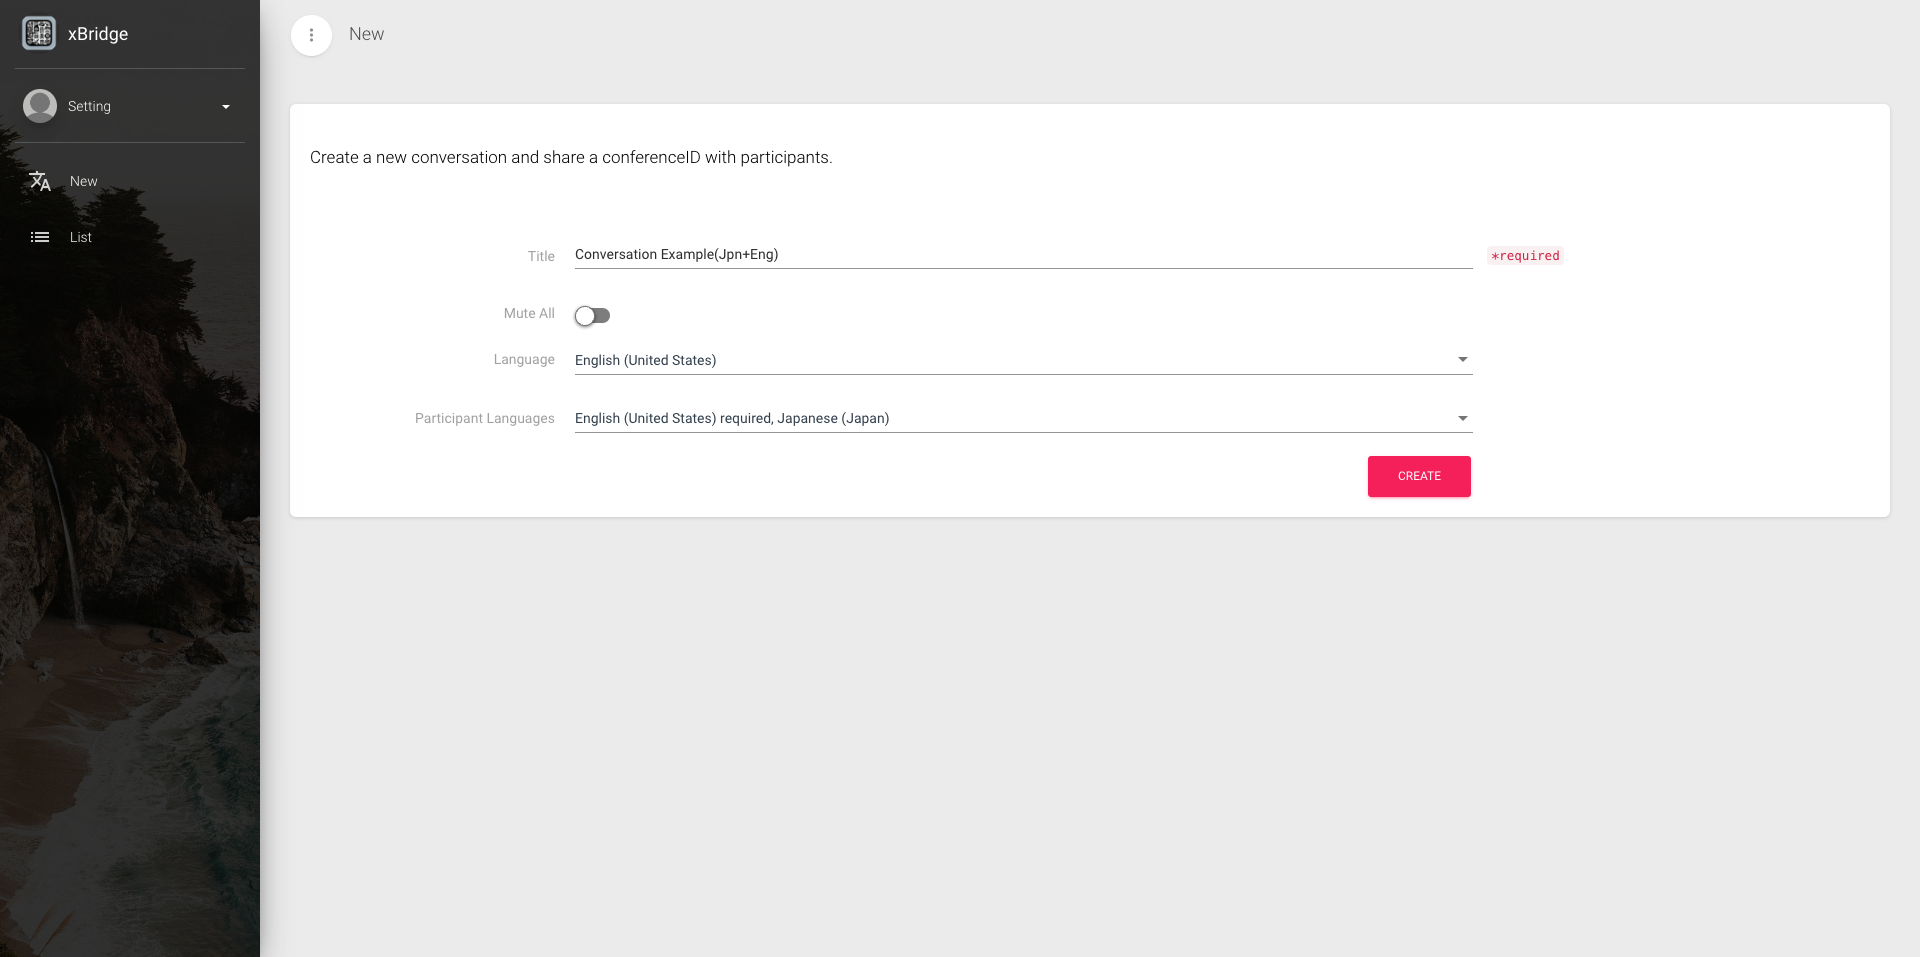
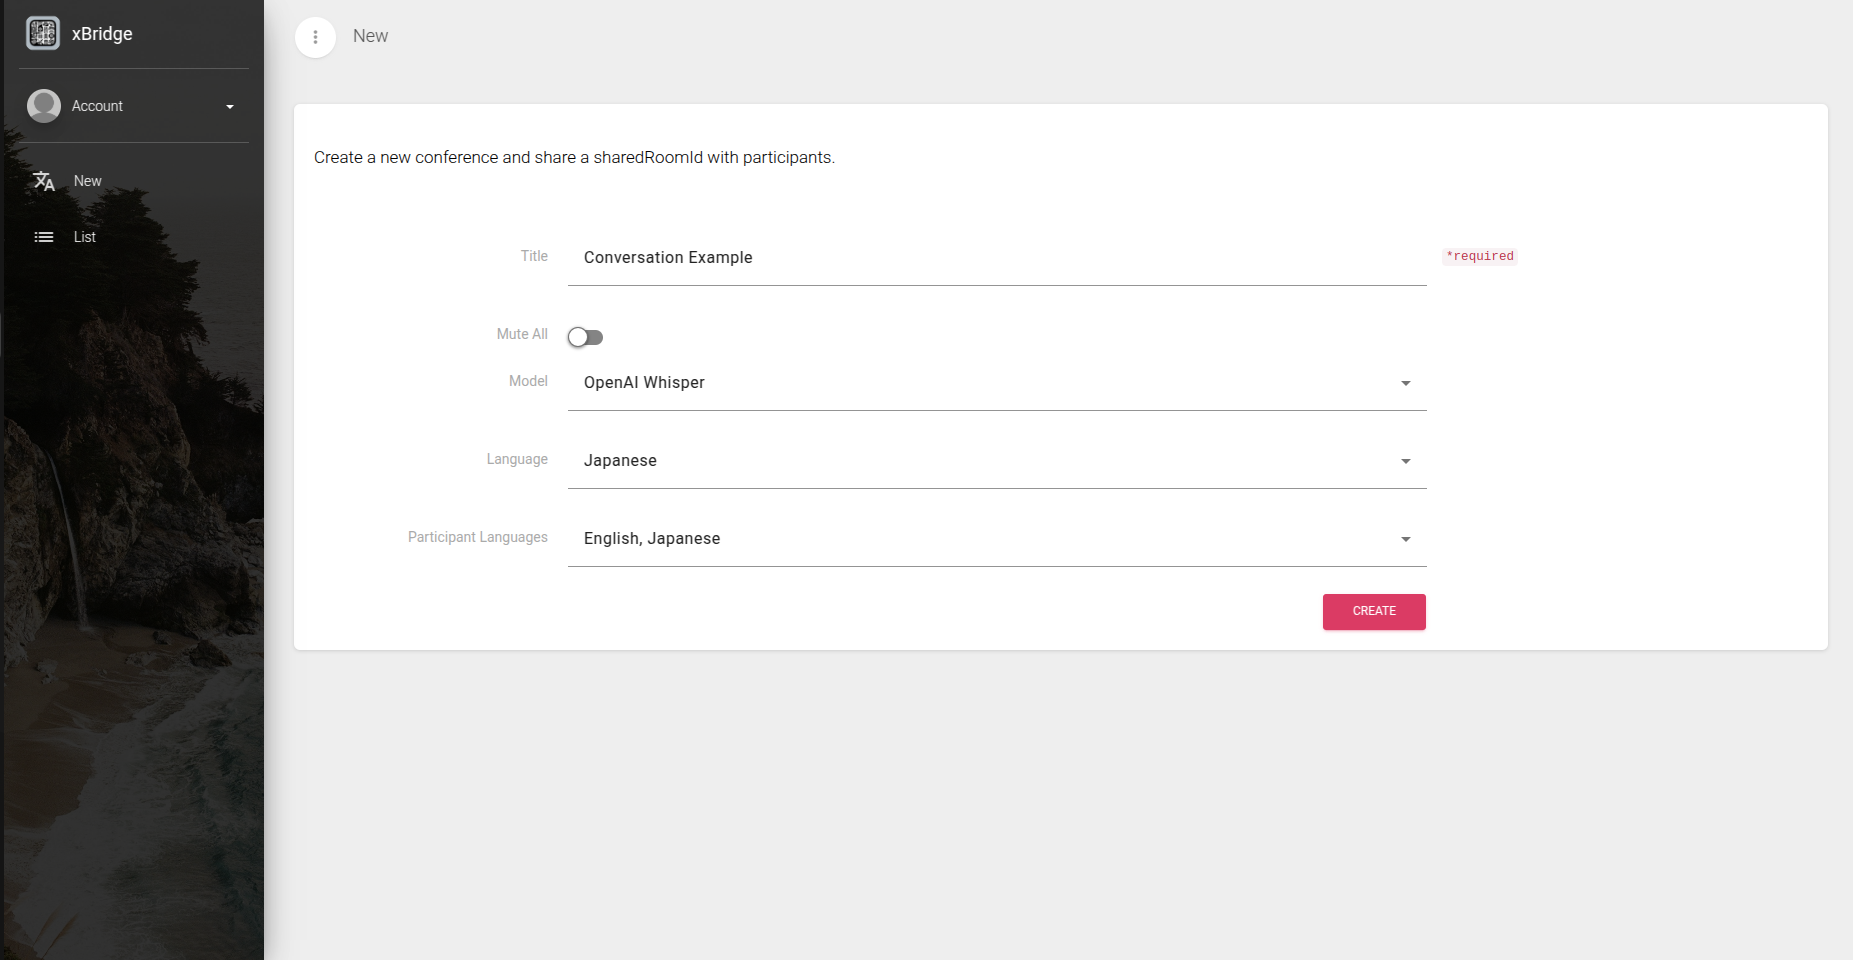
whisper model document

diff --git a/content/content.ja/docs/xbridge/supported-languages-whisper/_index.md b/content/content.ja/docs/xbridge/supported-languages-whisper/_index.md
@@ -1,0 +1,95 @@
+---
+weight: 10
+---
+
+# 対応言語一覧（OpenAI Whisper モデル）
+
+English</br>
+Chinese</br>
+German</br>
+Spanish</br>
+Russian</br>
+Korean</br>
+French</br>
+Japanese</br>
+Portuguese</br>
+Turkish</br>
+Polish</br>
+Catalan</br>
+Dutch</br>
+Arabic</br>
+Swedish</br>
+Italian</br>
+Indonesian</br>
+Hindi</br>
+Finnish</br>
+Vietnamese</br>
+Hebrew</br>
+Ukrainian</br>
+Greek</br>
+Malay</br>
+Thai</br>
+Danish</br>
+Czech</br>
+Romanian</br>
+Hungarian</br>
+Tamil</br>
+Norwegian</br>
+Slovak</br>
+Croatian</br>
+Bulgarian</br>
+Urdu</br>
+Lithuanian</br>
+Slovenian</br>
+Latvian</br>
+Estonian</br>
+Afrikaans</br>
+Galician</br>
+Marathi</br>
+Icelandic</br>
+Swahili</br>
+Macedonian</br>
+Welsh</br>
+Serbian</br>
+Nepali</br>
+Azerbaijani</br>
+Persian</br>
+Bosnian</br>
+Kazakh</br>
+Albanian</br>
+Amharic</br>
+Armenian</br>
+Khmer</br>
+Lao</br>
+Burmese</br>
+Mongolian</br>
+Shona</br>
+Yoruba</br>
+Somali</br>
+Zulu</br>
+Kannada</br>
+Malayalam</br>
+Telugu</br>
+Sinhala</br>
+Turkmen</br>
+Luxembourgish</br>
+Pashto</br>
+Gujarati</br>
+Punjabi</br>
+Esperanto</br>
+Tagalog</br>
+Bengali</br>
+Basque</br>
+Occitan</br>
+Latin</br>
+Quechua</br>
+Sanskrit</br>
+Yiddish</br>
+Hawaiian</br>
+Javanese</br>
+Sindhi</br>
+Kurdish</br>
+Tajik</br>
+Tatar</br>
+Cree</br>
+Tibetan</br>

diff --git a/content/content.ja/docs/conversation/create-conversation/_index.md b/content/content.ja/docs/conversation/create-conversation/_index.md
@@ -9,6 +9,7 @@
 | -------------------- | ---------------------------------------------------------------------------------------------------------------------------------- |
 | Title                | 会議のタイトル                                                                                                                     |
 | Mute All             | ホスト以外のスピーカーを全員ミュートにする場合は、On にしてください。                                                              |
+| Model                | 「OpenAI Whisper」または「汎用モデル」のいづれかを選択します。                                                                     |
 | Language             | ホストの主要言語を選択します。                                                                                                     |
 | Participant Language | Speaker と Viewer の言語を選択してください。例えば、会議で英語の登壇者、参加者が日本語となる場合、英語と日本語を選択してください。 |
 

diff --git a/content/content.ja/docs/conversation/start-conversation/_index.md b/content/content.ja/docs/conversation/start-conversation/_index.md
@@ -13,8 +13,9 @@
 {{< figure src="images/started-conversation.png" class="center" >}}
 
 {{< hint warning >}}
-**通訳開始には 10 秒程度かかることがあります**  
+**通訳開始には 10-60 秒程度かかることがあります**  
 会議開始後、数秒間は画面上部に`Conversation is closed`など赤字のエラーが表示され通訳のシステムが準備できるまで待ちます。
+会議のモデルに「OpenAI Whisper」を選択している場合、開始できる状態なるまで最大 60 秒かかる場合があります。
 {{< /hint >}}
 
 スピーカーは別の端末から参加し、会話を開始してください。

diff --git a/content/content.ja/menu/index.md b/content/content.ja/menu/index.md
@@ -3,7 +3,8 @@ headless: true
 ---
 
 - [**xBridge 概要**]({{< relref "/docs/xbridge" >}})
-- [対応言語一覧]({{< relref "/docs/xbridge/supported-languages" >}})
+- [対応言語一覧（OpenAI Whisper モデル）]({{< relref "/docs/xbridge/supported-languages-whisper" >}})
+- [対応言語一覧（汎用モデル）]({{< relref "/docs/xbridge/supported-languages-default" >}})
   <br />
 - [**会議通訳の利用方法**]({{< relref "/docs/conversation" >}})
 

diff --git a/content/content.ja/docs/xbridge/supported-languages-default/_index.md b/content/content.ja/docs/xbridge/supported-languages-default/_index.md
@@ -2,7 +2,7 @@
 weight: 10
 ---
 
-# サポート言語一覧
+# 対応言語一覧（デフォルトモデル）
 
 English (United States)</br>
 Japanese (Japan)</br>
